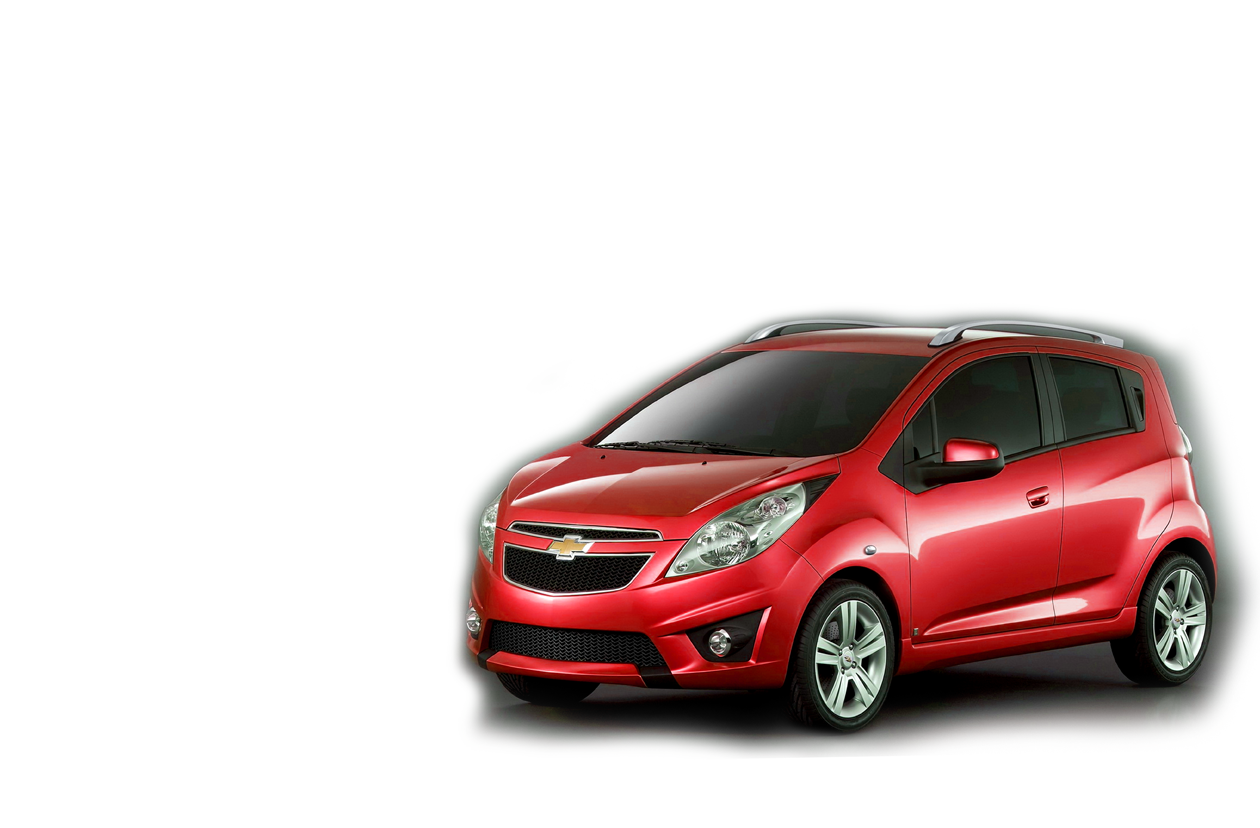
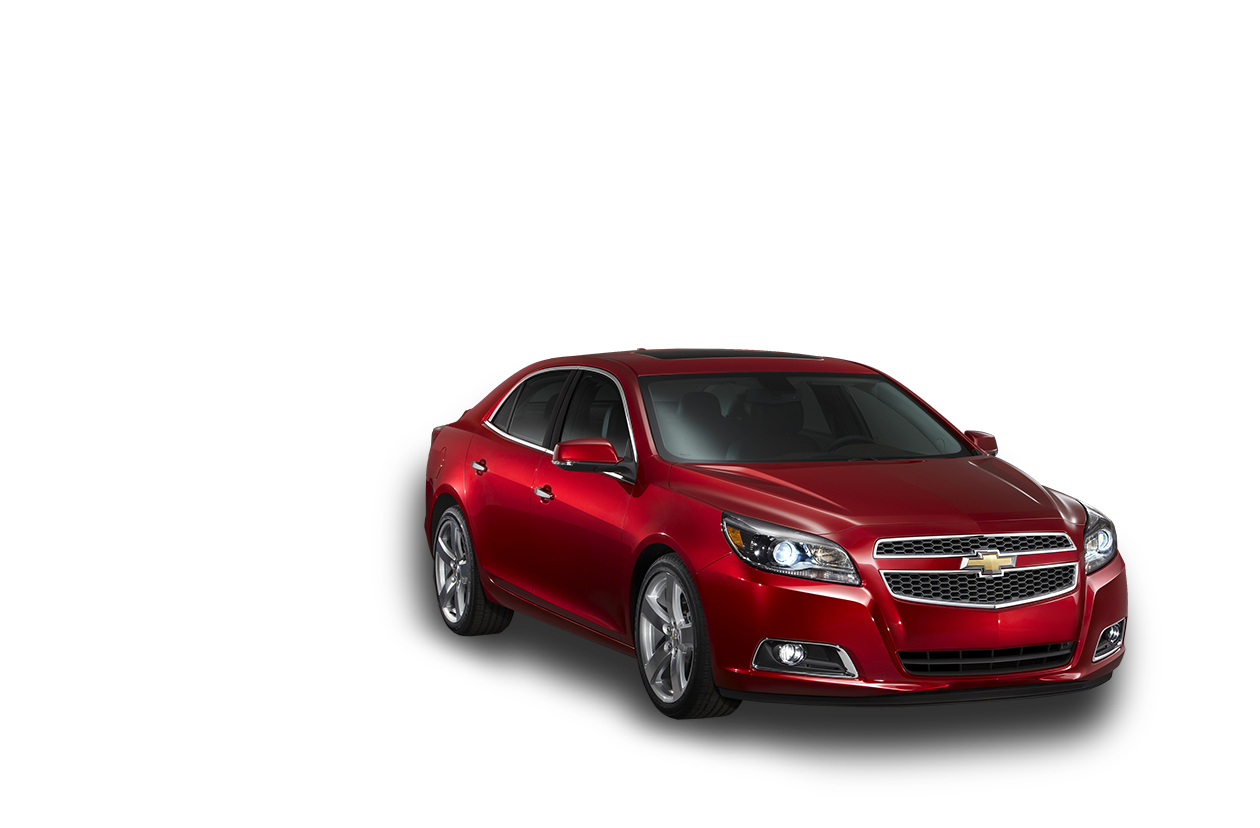
Replacing Spark with Malibu

Changed region(s): [[0.3095, 0.3623, 1.0, 0.936]]

diff --git a/public/gm321.html b/public/gm321.html
@@ -684,10 +684,6 @@
             <img class="vehicle" alt="" src="images/gm-slices/spark/spark.png" data-100-top="right:-100%;bottom:5%"
                  data-center-center="right: 0%;bottom:0%" data-top-center="right:30%;bottom:-70%"
                  data-anchor-target="#gm-campus-spark"/>
-            <img id="spark-headlights" class="headlights" src="images/gm-slices/spark/spark-lit.png"
-                 data-100-top="right:-100%;bottom:5%"
-                 data-center-center="right: 0%;bottom:0%" data-top-center="right:30%;bottom:-70%"
-                 data-anchor-target="#gm-campus-spark"/>
         </div>
     </div>
     <div class="downBtn white-button" data-slide="17">
